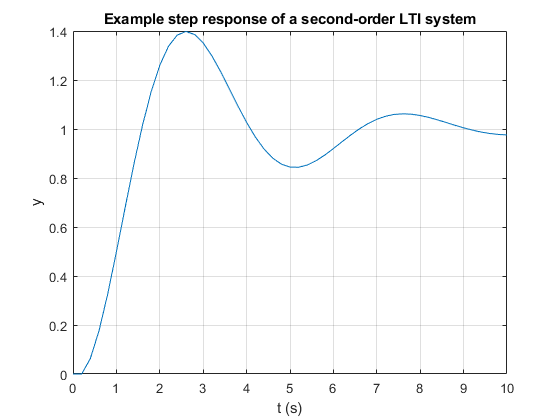
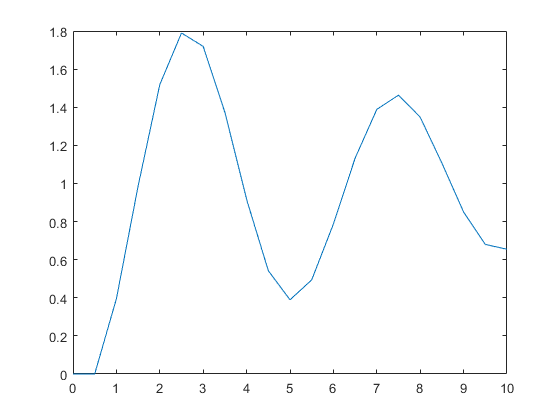
fiz os outros topicos do trabalho introdutorio

diff --git a/lab_introducao/html/damping_times_frequency.html b/lab_introducao/html/damping_times_frequency.html
@@ -6,7 +6,7 @@
    <!--
 This HTML was auto-generated from MATLAB code.
 To make changes, update the MATLAB code and republish this document.
-      --><title>Simulation of a Linear System</title><meta name="generator" content="MATLAB 9.8"><link rel="schema.DC" href="http://purl.org/dc/elements/1.1/"><meta name="DC.date" content="2021-12-05"><meta name="DC.source" content="main.m"><style type="text/css">
+      --><title>Simulation of a Linear System</title><meta name="generator" content="MATLAB 9.8"><link rel="schema.DC" href="http://purl.org/dc/elements/1.1/"><meta name="DC.date" content="2021-12-05"><meta name="DC.source" content="damping_times_frequency.m"><style type="text/css">
 html,body,div,span,applet,object,iframe,h1,h2,h3,h4,h5,h6,p,blockquote,pre,a,abbr,acronym,address,big,cite,code,del,dfn,em,font,img,ins,kbd,q,s,samp,small,strike,strong,sub,sup,tt,var,b,u,i,center,dl,dt,dd,ol,ul,li,fieldset,form,label,legend,table,caption,tbody,tfoot,thead,tr,th,td{margin:0;padding:0;border:0;outline:0;font-size:100%;vertical-align:baseline;background:transparent}body{line-height:1}ol,ul{list-style:none}blockquote,q{quotes:none}blockquote:before,blockquote:after,q:before,q:after{content:'';content:none}:focus{outine:0}ins{text-decoration:none}del{text-decoration:line-through}table{border-collapse:collapse;border-spacing:0}
 
 html { min-height:100%; margin-bottom:1px; }
@@ -70,22 +70,27 @@ table td { padding:7px 5px; text-align:left; vertical-align:top; border:1px soli
   </style></head><body><div class="content"><h1>Simulation of a Linear System</h1><!--introduction--><p>The title kinda says it all</p><!--/introduction--><h2>Contents</h2><div><ul><li><a href="#1">Initializing this bad boy</a></li><li><a href="#2">Setting the second-order LTI system parameters</a></li><li><a href="#3">Running the simulation</a></li><li><a href="#5">Plotting some dope-ass graphs</a></li><li><a href="#7">Gettin'em legends on point</a></li><li><a href="#8">Author notes</a></li></ul></div><h2 id="1">Initializing this bad boy</h2><pre class="codeinput">close <span class="string">all</span>
 clear
 clc
-</pre><h2 id="2">Setting the second-order LTI system parameters</h2><p>We can change the parameters of the simulation here instead of having to do it on simulink.</p><pre class="codeinput">xi = 0.4;
-omega_n = 2*pi/5; <span class="comment">%rad/s</span>
-StepSizes = [0.5; 0.1; 0.01; 1e-3];
+</pre><h2 id="2">Setting the second-order LTI system parameters</h2><p>We can change the parameters of the simulation here instead of having to do it on simulink.</p><pre class="codeinput">product = 0.5;
+xis = [0.1, 0.2, 0.5, 0.9, 1];
+omega_ns = 0.5 ./xis; <span class="comment">%rad/s</span>
+StepSizes = 0.01;
+finaltime = 20;
 </pre><h2 id="3">Running the simulation</h2><p>We cycle through all the step sizes specified in the StepSizes vector</p><pre class="codeinput">figure(1)
-<span class="keyword">for</span> i = 1:length(StepSizes)
-</pre><pre class="codeinput">    simout = sim(<span class="string">'dif_eq'</span>,<span class="string">'FixedStep'</span>,num2str(StepSizes(i))); <span class="comment">%Question: does it need to be in the same folder?</span>
+<span class="keyword">for</span> i = 1:length(xis)
+</pre><pre class="codeinput">    xi = xis(i);
+    omega_n = omega_ns(i);
+    simout = sim(<span class="string">'dif_eq'</span>,<span class="string">'StopTime'</span>,num2str(finaltime),<span class="string">'FixedStep'</span>,num2str(StepSizes)); <span class="comment">%Question: does it need to be in the same folder?</span>
 </pre><h2 id="5">Plotting some dope-ass graphs</h2><pre class="codeinput">plot(simout.y.time, simout.y.signals.values);
 hold <span class="string">on</span>
-</pre><img vspace="5" hspace="5" src="main_01.png" alt=""> <img vspace="5" hspace="5" src="main_02.png" alt=""> <img vspace="5" hspace="5" src="main_03.png" alt=""> <img vspace="5" hspace="5" src="main_04.png" alt=""> <pre class="codeinput"><span class="keyword">end</span>
-</pre><h2 id="7">Gettin'em legends on point</h2><pre class="codeinput">legend(strcat(<span class="string">'StepSize = '</span>, num2str(StepSizes(1))))
+</pre><img vspace="5" hspace="5" src="damping_times_frequency_01.png" alt=""> <img vspace="5" hspace="5" src="damping_times_frequency_02.png" alt=""> <img vspace="5" hspace="5" src="damping_times_frequency_03.png" alt=""> <img vspace="5" hspace="5" src="damping_times_frequency_04.png" alt=""> <img vspace="5" hspace="5" src="damping_times_frequency_05.png" alt=""> <pre class="codeinput"><span class="keyword">end</span>
+</pre><h2 id="7">Gettin'em legends on point</h2><pre class="codeinput">leg = legend(strcat(<span class="string">'xi = '</span>, num2str(xis(1)),<span class="string">' omega_n = '</span>, num2str(omega_ns(1))),<span class="string">'Location'</span>,<span class="string">'southeast'</span>);
+title(leg,strcat(<span class="string">'xi times omega_n ='</span>, num2str(product)))
 
-<span class="keyword">for</span> j = 2:length(StepSizes)
+<span class="keyword">for</span> j = 2:length(xis)
 <span class="comment">%first get the legend handles</span>
 old_legend=findobj(gcf, <span class="string">'Type'</span>, <span class="string">'Legend'</span>);
 <span class="comment">%then append the legend with new entry</span>
-legend([old_legend.String,strcat(<span class="string">'StepSize = '</span>, num2str(StepSizes(j)))])
+legend([old_legend.String,strcat(<span class="string">'xi = '</span>, num2str(xis(j)),<span class="string">' omega_n = '</span>, num2str(omega_ns(j)))])
 <span class="keyword">end</span>
 
 xlabel(<span class="string">'t (s)'</span>);
@@ -93,7 +98,7 @@ ylabel(<span class="string">'y'</span>);
 grid <span class="string">on</span>;
 box <span class="string">on</span>;
 title(<span class="string">'Example step response of a second-order LTI system'</span>);
-</pre><img vspace="5" hspace="5" src="main_05.png" alt=""> <h2 id="8">Author notes</h2><p>Apparentely this is used to model solar panels deflection and shit.</p><p class="footer"><br><a href="https://www.mathworks.com/products/matlab/">Published with MATLAB&reg; R2020a</a><br></p></div><!--
+</pre><img vspace="5" hspace="5" src="damping_times_frequency_06.png" alt=""> <h2 id="8">Author notes</h2><p>The time it takes for every conbination to stabilize is the same.</p><p class="footer"><br><a href="https://www.mathworks.com/products/matlab/">Published with MATLAB&reg; R2020a</a><br></p></div><!--
 ##### SOURCE BEGIN #####
 %% Simulation of a Linear System
 % The title kinda says it all
@@ -107,28 +112,32 @@ clc
 %% Setting the second-order LTI system parameters
 % We can change the parameters of the simulation here instead of 
 % having to do it on simulink.
-xi = 0.4;
-omega_n = 2*pi/5; %rad/s
-StepSizes = [0.5; 0.1; 0.01; 1e-3];
-
+product = 0.5;
+xis = [0.1, 0.2, 0.5, 0.9, 1];
+omega_ns = 0.5 ./xis; %rad/s
+StepSizes = 0.01;
+finaltime = 20;
 %% Running the simulation
 % We cycle through all the step sizes specified in the StepSizes vector
 figure(1)
-for i = 1:length(StepSizes)
-    simout = sim('dif_eq','FixedStep',num2str(StepSizes(i))); %Question: does it need to be in the same folder?
+for i = 1:length(xis)
+    xi = xis(i);
+    omega_n = omega_ns(i);
+    simout = sim('dif_eq','StopTime',num2str(finaltime),'FixedStep',num2str(StepSizes)); %Question: does it need to be in the same folder?
 
 %% Plotting some dope-ass graphs
 plot(simout.y.time, simout.y.signals.values);
 hold on
 end
 %% Gettin'em legends on point
-legend(strcat('StepSize = ', num2str(StepSizes(1))))
+leg = legend(strcat('xi = ', num2str(xis(1)),' omega_n = ', num2str(omega_ns(1))),'Location','southeast');
+title(leg,strcat('xi times omega_n =', num2str(product)))
 
-for j = 2:length(StepSizes)
+for j = 2:length(xis)
 %first get the legend handles
 old_legend=findobj(gcf, 'Type', 'Legend');
 %then append the legend with new entry
-legend([old_legend.String,strcat('StepSize = ', num2str(StepSizes(j)))])
+legend([old_legend.String,strcat('xi = ', num2str(xis(j)),' omega_n = ', num2str(omega_ns(j)))])
 end
 
 xlabel('t (s)');
@@ -138,7 +147,7 @@ box on;
 title('Example step response of a second-order LTI system');
 
 %% Author notes
-% Apparentely this is used to model solar panels deflection and shit.
+% The time it takes for every conbination to stabilize is the same.
 
 
 ##### SOURCE END #####

diff --git a/lab_introducao/damping_times_frequency.m b/lab_introducao/damping_times_frequency.m
@@ -1,0 +1,49 @@
+%% Simulation of a Linear System
+% The title kinda says it all
+
+%% Initializing this bad boy
+
+close all
+clear
+clc
+
+%% Setting the second-order LTI system parameters
+% We can change the parameters of the simulation here instead of 
+% having to do it on simulink.
+product = 0.5;
+xis = [0.1, 0.2, 0.5, 0.9, 1];
+omega_ns = 0.5 ./xis; %rad/s
+StepSizes = 0.01;
+finaltime = 20;
+%% Running the simulation
+% We cycle through all the step sizes specified in the StepSizes vector
+figure(1)
+for i = 1:length(xis)
+    xi = xis(i);
+    omega_n = omega_ns(i);
+    simout = sim('dif_eq','StopTime',num2str(finaltime),'FixedStep',num2str(StepSizes)); %Question: does it need to be in the same folder?
+
+%% Plotting some dope-ass graphs
+plot(simout.y.time, simout.y.signals.values);
+hold on
+end
+%% Gettin'em legends on point
+leg = legend(strcat('xi = ', num2str(xis(1)),' omega_n = ', num2str(omega_ns(1))),'Location','southeast');
+title(leg,strcat('xi times omega_n =', num2str(product)))
+
+for j = 2:length(xis)
+%first get the legend handles
+old_legend=findobj(gcf, 'Type', 'Legend');
+%then append the legend with new entry
+legend([old_legend.String,strcat('xi = ', num2str(xis(j)),' omega_n = ', num2str(omega_ns(j)))])
+end
+
+xlabel('t (s)');
+ylabel('y');
+grid on;
+box on;
+title('Example step response of a second-order LTI system');
+
+%% Author notes
+% The time it takes for every conbination to stabilize is the same.
+

diff --git a/lab_introducao/frequency.m b/lab_introducao/frequency.m
@@ -1,0 +1,46 @@
+%% Simulation of a Linear System
+% The title kinda says it all
+
+%% Initializing this bad boy
+
+close all
+clear
+clc
+
+%% Setting the second-order LTI system parameters
+% We can change the parameters of the simulation here instead of 
+% having to do it on simulink.
+xi = 0.4;
+omega_ns = [0.5, 1, 2, 4]; %rad/s
+StepSize = 0.01;
+finaltime = 10;
+%% Running the simulation
+% We cycle through all the natural frequencies specified in the omega_ns vector
+figure(1)
+for i = 1:length(omega_ns)
+    omega_n = omega_ns(i);
+    simout = sim('dif_eq','StopTime',num2str(finaltime),'FixedStep',num2str(StepSize)); %Question: does it need to be in the same folder?
+
+%% Plotting some dope-ass graphs
+plot(simout.y.time, simout.y.signals.values);
+hold on
+end
+%% Gettin'em legends on point
+legend(strcat('omega_n = ', num2str(omega_ns(1))),'Location','southeast')
+
+for j = 2:length(omega_ns)
+%first get the legend handles
+old_legend=findobj(gcf, 'Type', 'Legend');
+%then append the legend with new entry
+legend([old_legend.String,strcat('omega_n = ', num2str(omega_ns(j)))])
+end
+
+xlabel('t (s)');
+ylabel('y');
+grid on;
+box on;
+title('Example step response of a second-order LTI system');
+
+%% Author notes
+% Apparentely this is used to model solar panels deflection and shit.
+

diff --git a/lab_introducao/stepsize.m b/lab_introducao/stepsize.m
@@ -1,0 +1,45 @@
+%% Simulation of a Linear System
+% The title kinda says it all
+
+%% Initializing this bad boy
+
+close all
+clear
+clc
+
+%% Setting the second-order LTI system parameters
+% We can change the parameters of the simulation here instead of 
+% having to do it on simulink.
+xi = 0.4;
+omega_n = 2*pi/5; %rad/s
+StepSize = [0.5; 0.1; 0.01; 1e-3];
+finaltime = 10;
+%% Running the simulation
+% We cycle through all the step sizes specified in the StepSizes vector
+figure(1)
+for i = 1:length(StepSize)
+    simout = sim('dif_eq','StopTime',num2str(finaltime),'FixedStep',num2str(StepSize(i))); %Question: does it need to be in the same folder?
+
+%% Plotting some dope-ass graphs
+plot(simout.y.time, simout.y.signals.values);
+hold on
+end
+%% Gettin'em legends on point
+legend(strcat('StepSize = ', num2str(StepSize(1))),'Location','southeast')
+
+for j = 2:length(StepSize)
+%first get the legend handles
+old_legend=findobj(gcf, 'Type', 'Legend');
+%then append the legend with new entry
+legend([old_legend.String,strcat('StepSize = ', num2str(StepSize(j)))])
+end
+
+xlabel('t (s)');
+ylabel('y');
+grid on;
+box on;
+title('Example step response of a second-order LTI system');
+
+%% Author notes
+% Apparentely this is used to model solar panels deflection and shit.
+

diff --git a/lab_introducao/damping.m b/lab_introducao/damping.m
@@ -1,0 +1,46 @@
+%% Simulation of a Linear System
+% The title kinda says it all
+
+%% Initializing this bad boy
+
+close all
+clear
+clc
+
+%% Setting the second-order LTI system parameters
+% We can change the parameters of the simulation here instead of 
+% having to do it on simulink.
+xis = [0.1, 0.2, 0.5, 0.9, 1, 2, 4];
+omega_n = 2*pi/5; %rad/s
+StepSize = 0.01;
+finaltime = 20;
+%% Running the simulation
+% We cycle through all the dampings specified in the xis vector
+figure(1)
+for i = 1:length(xis)
+    xi = xis(i);
+    simout = sim('dif_eq','StopTime',num2str(finaltime),'FixedStep',num2str(StepSize)); %Question: does it need to be in the same folder?
+
+%% Plotting some dope-ass graphs
+plot(simout.y.time, simout.y.signals.values);
+hold on
+end
+%% Gettin'em legends on point
+legend(strcat('xi = ', num2str(xis(1))),'Location','southeast')
+
+for j = 2:length(xis)
+%first get the legend handles
+old_legend=findobj(gcf, 'Type', 'Legend');
+%then append the legend with new entry
+legend([old_legend.String,strcat('xi = ', num2str(xis(j)))])
+end
+
+xlabel('t (s)');
+ylabel('y');
+grid on;
+box on;
+title('Example step response of a second-order LTI system');
+
+%% Author notes
+% Apparentely this is used to model solar panels deflection and shit.
+
